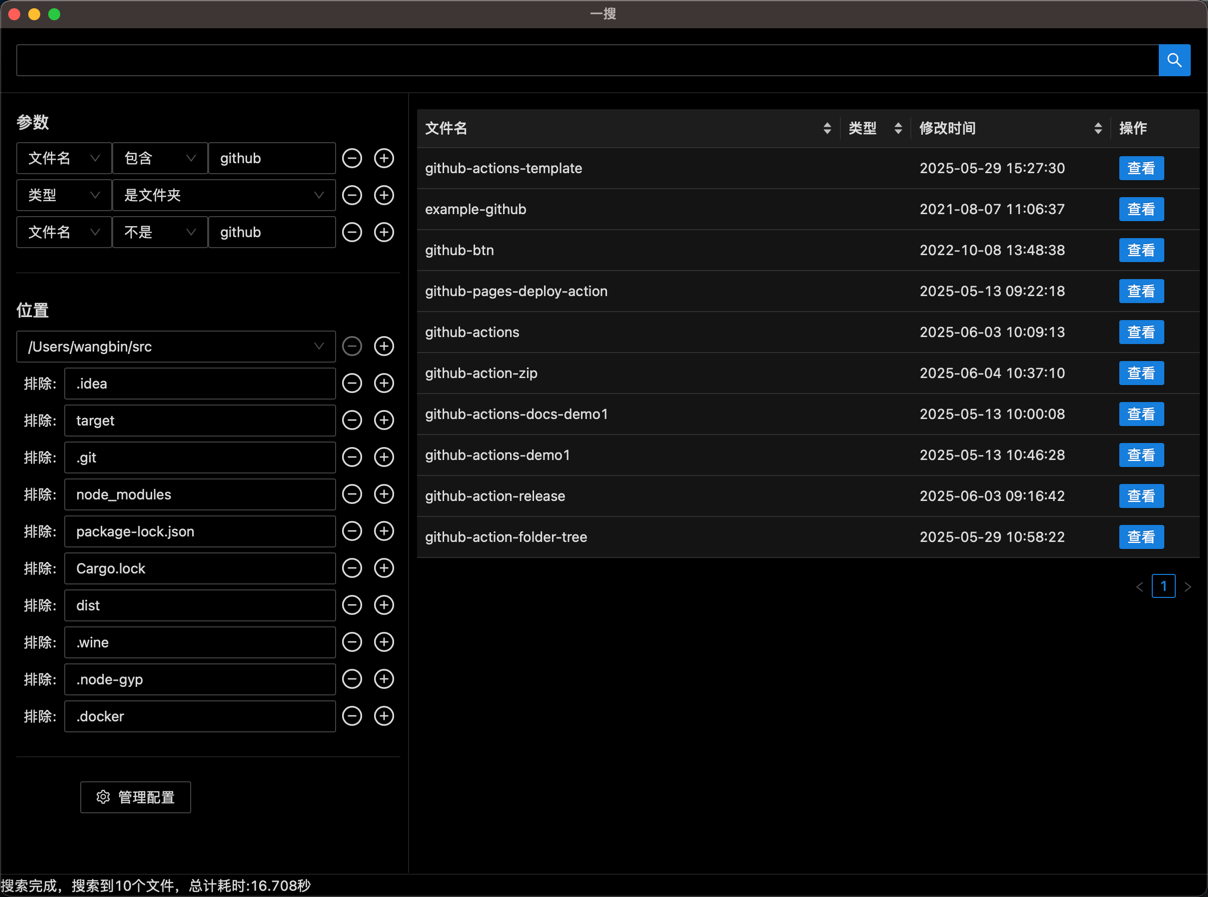
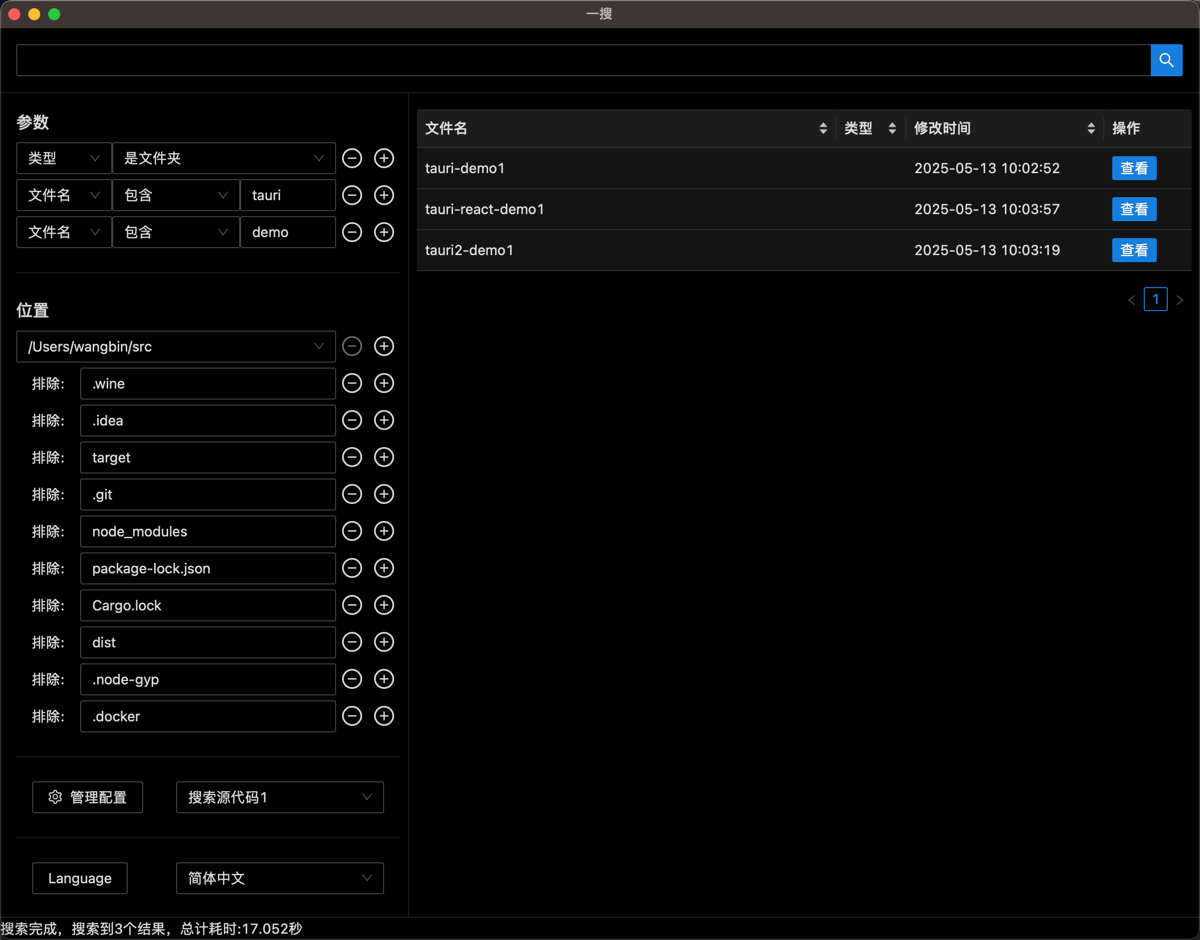
更新使用截图

diff --git a/README.md b/README.md
@@ -1,6 +1,6 @@
 # 文件搜索工具 - 一搜
 
-示例：
+使用截图：
 
 ![](other/screen01.png)
 
